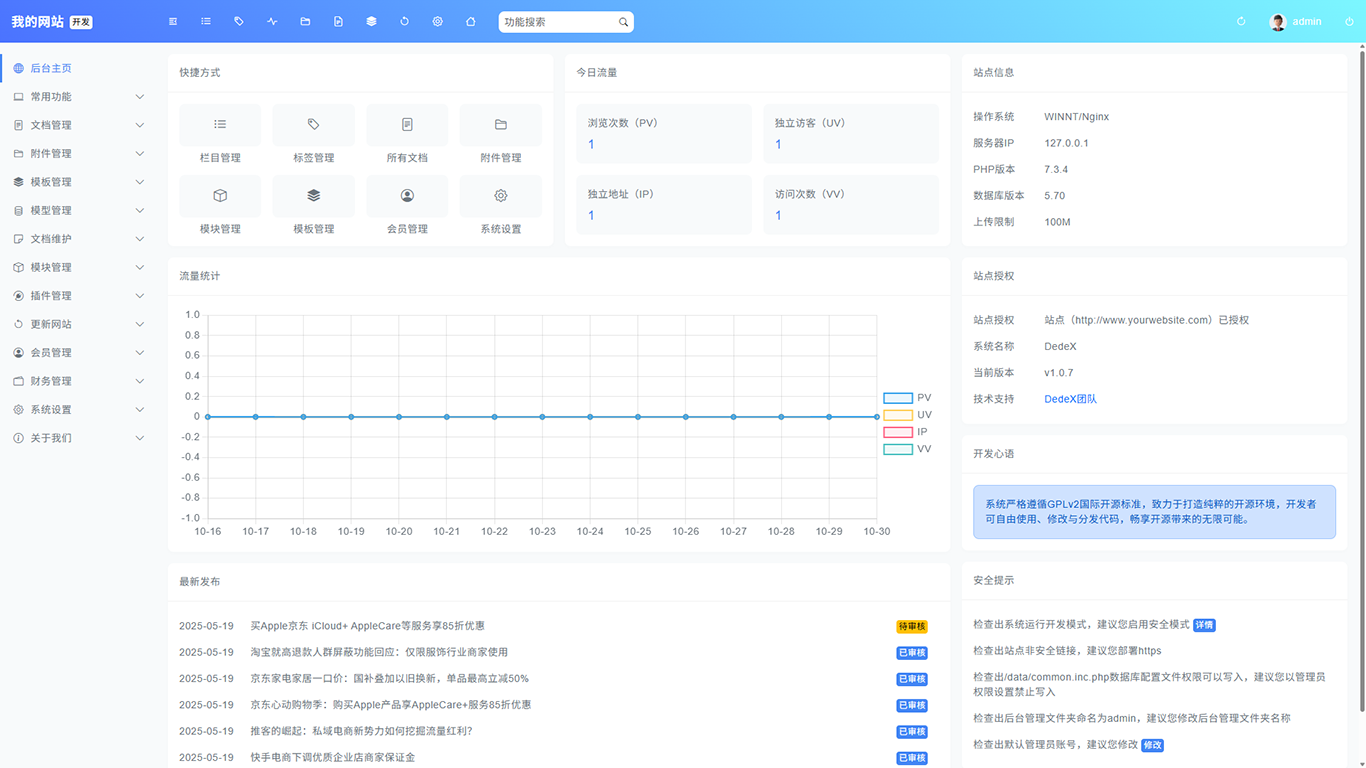
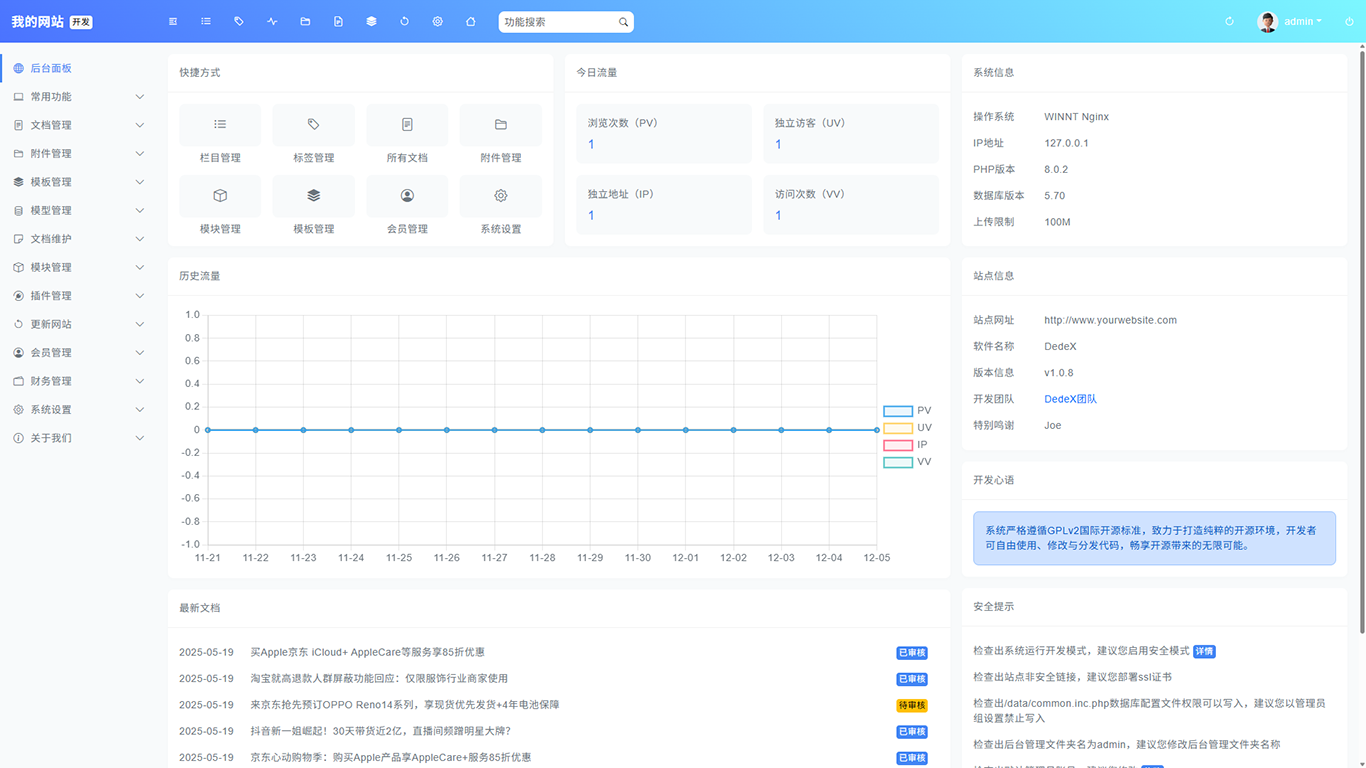
更新说明

diff --git a/docs/changelog.md b/docs/changelog.md
@@ -28,8 +28,8 @@
 - 其他常规问题修复；
 
 # 1.0.5
-- 优化部分原生提示，采用后台系统提示风格；
-- 优化系统分页，适配后台列表风格；
+- 优化部分原生提示，采用后台程序提示风格；
+- 优化程序分页，适配后台列表风格；
 - 优化验证码风格，适配后台表单验证；
 - 优化自定义表单验证，防止恶意提交；
 - 优化更新网站提示，显示更新进程；
@@ -37,7 +37,7 @@
 - 修正前后台栏目间隔符号，前台用-后台用 > ；
 - 修正自定义时间类型字段选择器；
 - 添加后台导航背景颜色可随时时间动态变化；
-- 系统版本不采用4命名，因前辈人不喜欢4这个数字；
+- 程序版本不采用4命名，因前辈人不喜欢4这个数字；
 - 其他常规问题修复；
 
 # 1.0.6
@@ -69,6 +69,16 @@
 - 修正会员中心扣费问题，导致不能正常扣费；
 - 修正搜索关键词和自由列表问题，处理历史遗留错误；
 - 修正自定义表单列表按钮，处理按钮功能体验；
-- 修正系统配置数字类型问题，导致输入空或者其他字符引起错误；
+- 修正程序配置数字类型问题，导致输入空或者其他字符引起错误；
 - 修正系数据库地址localhost，使用127.0.0.1效果更佳；
 - 其他常规问题和报错修复，后台运行更稳定、高效；
+
+# 1.0.8
+- 调整后台头部功能，利用后台布局；
+- 调整默认富文本，更简洁高效编辑文档；
+- 修正注册禁止ID功能，防止乱注册ID；
+- 修正顶踩、评论功能，让功能更加友好；
+- 修正程序在运行中报错，让程序运行更加稳定；
+- 添加自定义文档属性，让标签调用更加灵活；
+- 添加后台登录背景图，在后台设置背景图；
+- 其他常规问题修复；
